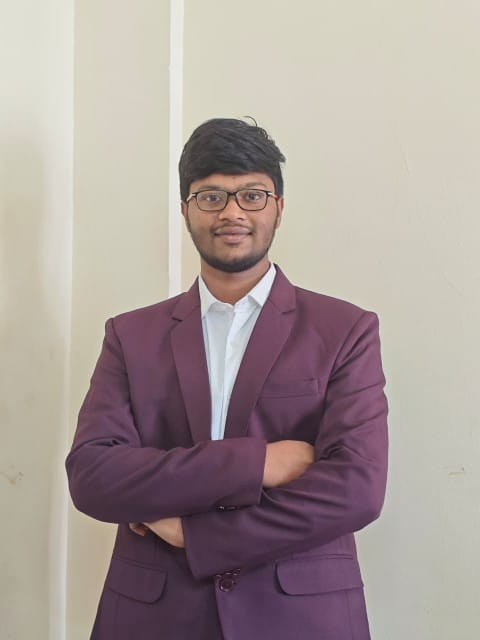
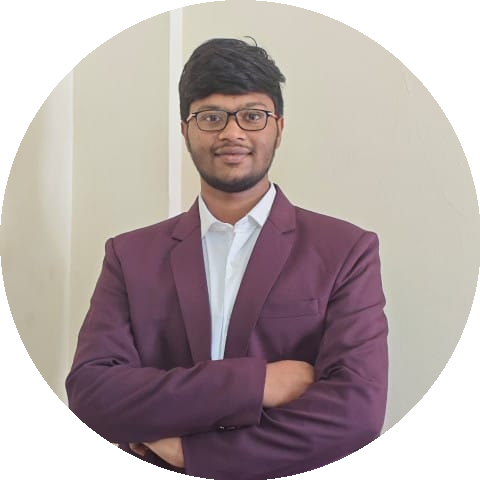
Improve profile image - circular crop with professional styling

diff --git a/style.css b/style.css
@@ -173,19 +173,22 @@ body {
 }
 
 .profile-img {
-  width: 150px;
-  height: 150px;
+  width: 160px;
+  height: 160px;
   border-radius: 50%;
   object-fit: cover;
   border: 4px solid var(--accent);
   margin-bottom: 1.5rem;
-  box-shadow: 0 0 30px rgba(0, 217, 255, 0.4);
+  box-shadow: 0 0 30px rgba(0, 217, 255, 0.4), 0 8px 32px rgba(0, 0, 0, 0.3);
   transition: var(--transition);
+  display: block;
+  margin-left: auto;
+  margin-right: auto;
 }
 
 .profile-img:hover {
   transform: scale(1.05);
-  box-shadow: 0 0 50px rgba(0, 217, 255, 0.6);
+  box-shadow: 0 0 50px rgba(0, 217, 255, 0.6), 0 12px 48px rgba(0, 0, 0, 0.4);
 }
 
 .hero-title {
